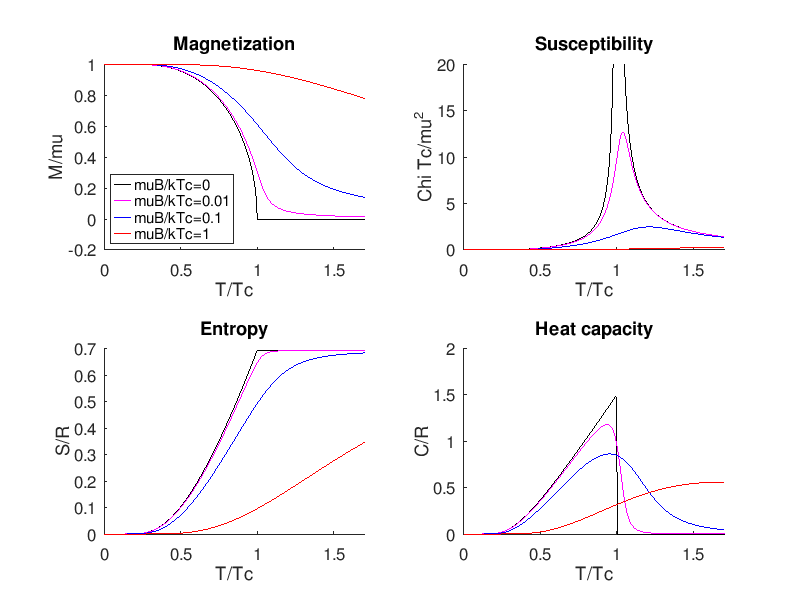
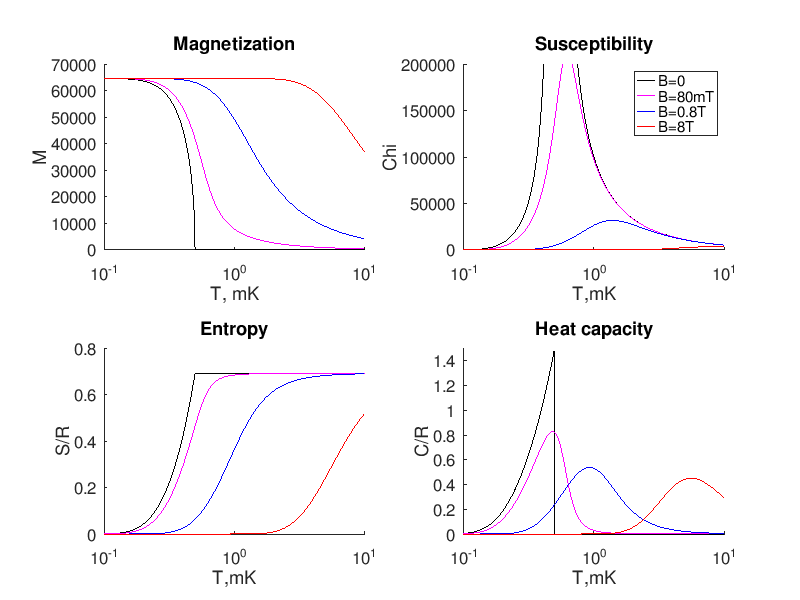
magn.f: update docs

diff --git a/docs/index.htm b/docs/index.htm
@@ -40,6 +40,9 @@
 <p>This library provides constant and functions for various $^3$He properties.
 Code can be found in <a href="https://github.com/slazav/he3lib">https://github.com/slazav/he3lib</a>
 
+<p>Old documentation (last updated 2016):
+<a href="http://slazav.github.io/he3lib/index_2016.html">
+http://slazav.github.io/he3lib/index_2016.html</a>
 
 <h3>Supported interfaces</h3>
 
@@ -47,9 +50,6 @@ Code can be found in <a href="https://github.com/slazav/he3lib">https://github.c
 command-line interface. Example programs and scripts can be found in the
 <tt>examples/</tt> folder.
 
-<p>Old documentation (last updated 2016):
-<a href="http://slazav.github.io/he3lib/index_2016.htm">
-http://slazav.github.io/he3lib/index_2016.htm</a>
 
 <ul>
 <li><b>Fortran-77.</b>
@@ -1053,15 +1053,15 @@ arguments: temperature [K], pressure [bar], rho wire [g/cm^3], wire diameter [um
 <hr><a name='hh21'></a><h2>Magnetic models
 <a href="https://raw.githubusercontent.com/slazav/he3lib/master/functions//magn.f">[magn.f]</a>
 </h2>
+<p><p>TODO: it's better to re-chack magnetization units. It's checked that magnetization
+is consistent with susceptibility and entropy is consistent with heat capacity and
+demagnetization cooling effect.</p>
 <h3>Curie-Weiss magnet with spin 1/2</h3>
 <p>See <a href="https://arxiv.org/pdf/1301.2141.pdf">[Kochmansky]</a>.</p>
-<p><p>Function arguments:
-<br>ttc: $T/T_c$
-<br>btc: $\gamma \hbar B / 2 k_B T_c$ (note spin factor 1/2)</p>
 <p><tt>magn_cw_y(ttc,btc)</tt> -- y-function, dimensionless magnetization of S=1/2 Curie-Weiss magnet,  M/mu vs T/Tc and muB/kTc
 <br>
 Solving equation m = \tanh((m+btc)/ttc) by Newton method.
-<br>Works for positive and negative btc.
+Works for positive and negative field.
 
 <p><tt>magn_cw_m(T,B,Tc,gyro)</tt> -- Molar magnetization of S=1/2 Curie-Weiss magnet,  M[J/T/mole] vs T[K], B[T], Tc[K], gyro[rad/s/T]
 <br>
@@ -1075,18 +1075,20 @@ Solving equation m = \tanh((m+btc)/ttc) by Newton method.
 <p><tt>magn_cw_c(T,B,Tc,gyro)</tt> -- Heat capacity of S=1/2 Curie-Weiss magnet,  C/R vs T[K], B[T], Tc[K], gyro[rad/s/T]
 <br>
 
-<p><tt>magn_cw_d(T,B,Tc,gyro)</tt> -- Cooling effect of demagnetization D [K/T] vs T[K], B[T], Tc[K], gyro[rad/s/T]
+<p><tt>magn_cw_d(T,B,Tc,gyro)</tt> -- Cooling effect of demagnetization D[K/T] vs T[K], B[T], Tc[K], gyro[rad/s/T]
 <br>
 In the demagnetization process $dQ = T\,dS = T(dS/dT)\,dT + T(dS/dB)\,dB$.
 <br>Then $dT = dQ/C + D\,dB$, where $D = (dS/dB)/(dS/dT)$
 
+<p><p>Example for Curie-Weiss material with Curie temperature $T_c=0.5$ mK and
+gyromagnetic ratio $\gamma=203.789\cdot10^6$ rad/s/T.</p>
 <p><p> <img src="img/magn_cw.png"></p>
 <h3>Paramegnetetic material with internal field</h3>
-<p>See Pobell book f9.15
-<p>Function arguments:
-<br>bt: $\gamma \hbar \sqrt{B^2 + B_i^2} / k_B T$
-<br>spin</p>
-<p><tt>magn_par_m(T,B,Bi,gyro,spin)</tt> -- Molar magnetization of paramagnetic material, M[J/K/mole] vs T[K], B[T], Bi[T], gyro[rad/s/T], spin[half-int]
+<p>See Pobell book f9.15</p>
+<p><tt>magn_par_m(T,B,Bi,gyro,spin)</tt> -- Molar magnetization of paramagnetic material, M[J/T/mole] vs T[K], B[T], Bi[T], gyro[rad/s/T], spin[half-int]
+<br>
+
+<p><tt>magn_par_chi(T,B,Bi,gyro,spin)</tt> -- Molar magnetic susceptibility of paramagnetic material, chi[J/T^2/mole] vs T[K], B[T], Bi[T], gyro[rad/s/T], spin[half-int]
 <br>
 
 <p><tt>magn_par_s(T,B,Bi,gyro,spin)</tt> -- Entropy of paramagnetic material, S/R vs T[K], B[T], Bi[T], gyro[rad/s/T], spin[half-int]
@@ -1095,12 +1097,13 @@ In the demagnetization process $dQ = T\,dS = T(dS/dT)\,dT + T(dS/dB)\,dB$.
 <p><tt>magn_par_c(T,B,Bi,gyro,spin)</tt> -- Heat capacity of paramagnetic material, C/R vs T[K], B[T], Bi[T], gyro[rad/s/T], spin[half-int]
 <br>
 
-<p><p>Example for copper nuclei.  Internal field $B_i$ = 0.36e-3 T, gyromagnetic ratio $\gamma$ = 71.118e6 rad/s/T,
-spin $J$ = 3/2.</p>
+<p><tt>magn_par_d(T,B,Bi,gyro,spin)</tt> -- Cooling effect of demagnetization D[K/T] vs T[K], B[T], Bi[T], gyro[rad/s/T], spin[half-int]
+<br>
+In the demagnetization process $dQ = T\,dS = T(dS/dT)\,dT + T(dS/dB)\,dB$.
+<br>Then $dT = dQ/C + D\,dB$, where $D = (dS/dB)/(dS/dT)$
+
+<p><p>Example for copper nuclei.  Internal field $B_i = 0.36\cdot 10^{-3}$ T,
+gyromagnetic ratio $\gamma = 71.118\cdot10^6$ rad/s/T, spin $J$ = 3/2:</p>
 <p><p> <img src="img/magn_par.png"></p>
-<p><p>Comparison of Curie-Weiss and Paramagnetic models for solid He3 on a surface.
-Internal field $B_i$ = 0.7 T, gyromagnetic ratio $\gamma$ =  203.789e6 rad/s/T,
-spin $J$ = 1/2, Curie temerature $T_c$ = 0.5 mK.</p>
-<p><p> <img src="img/magn_he3s.png"></p>
 
 </body></html>

diff --git a/docs/img/magn_cw.m b/docs/img/magn_cw.m
@@ -3,61 +3,66 @@
   pkg load he3lib
 
 
-  t=0:0.005:1.7;
+  t=exp(log(0.1):0.01:log(10))*1e-3;
 
   figure; clf;
   subplot(2,2,1); hold on;
   title("Magnetization")
-  xlabel('T/Tc');
-  ylabel('M/mu');
+  xlabel('T, mK');
+  ylabel('M');
 
-  plot(t,magn_cw_m(t,0), 'k-');
-  plot(t,magn_cw_m(t,0.01), 'm-');
-  plot(t,magn_cw_m(t,0.1), 'b-');
-  plot(t,magn_cw_m(t,1), 'r-');
-  xlim([0,t(end)])
-  legend('muB/kTc=0', 'muB/kTc=0.01', 'muB/kTc=0.1', 'muB/kTc=1', 'Location', 'SouthWest')
+  Tc = 0.5e-3;
+  B0 = 0;
+  B1 = 0.08;
+  B2 = 0.8;
+  B3 = 8;
+  gyro = 203.789e6
+
+  semilogx(t*1e3,magn_cw_m(t,B0,Tc,gyro), 'k-');
+  semilogx(t*1e3,magn_cw_m(t,B1,Tc,gyro), 'm-');
+  semilogx(t*1e3,magn_cw_m(t,B2,Tc,gyro), 'b-');
+  semilogx(t*1e3,magn_cw_m(t,B3,Tc,gyro), 'r-');
+  ylim([0,70000])
+
 
 
   subplot(2,2,2); hold on;
   title("Susceptibility")
-  xlabel('T/Tc');
-  ylabel('Chi Tc/mu^2');
+  xlabel('T,mK');
+  ylabel('Chi');
 
-  plot(t,magn_cw_chi(t,0), 'k-');
-  plot(t,magn_cw_chi(t,0.01), 'm-');
-  plot(t,magn_cw_chi(t,0.1), 'b-');
-  plot(t,magn_cw_chi(t,1), 'r-');
-  ylim([0,20])
-  xlim([0,t(end)])
+  semilogx(t*1e3,magn_cw_chi(t,B0,Tc,gyro), 'k-');
+  semilogx(t*1e3,magn_cw_chi(t,B1,Tc,gyro), 'm-');
+  semilogx(t*1e3,magn_cw_chi(t,B2,Tc,gyro), 'b-');
+  semilogx(t*1e3,magn_cw_chi(t,B3,Tc,gyro), 'r-');
+  ylim([0,200000])
+  legend('B=0', 'B=80mT', 'B=0.8T', 'B=8T', 'Location', 'NorthEast')
 
 
 
   subplot(2,2,3); hold on;
   title("Entropy")
-  xlabel('T/Tc');
+  xlabel('T,mK');
   ylabel('S/R');
 
-  plot(t,magn_cw_s(t,0), 'k-');
-  plot(t,magn_cw_s(t,0.01), 'm-');
-  plot(t,magn_cw_s(t,0.1), 'b-');
-  plot(t,magn_cw_s(t,1), 'r-');
-  xlim([0,t(end)])
+  semilogx(t*1e3,magn_cw_s(t,B0,Tc,gyro), 'k-');
+  semilogx(t*1e3,magn_cw_s(t,B1,Tc,gyro), 'm-');
+  semilogx(t*1e3,magn_cw_s(t,B2,Tc,gyro), 'b-');
+  semilogx(t*1e3,magn_cw_s(t,B3,Tc,gyro), 'r-');
+  ylim([0,0.8])
 
 
 
   subplot(2,2,4); hold on;
   title("Heat capacity")
-  xlabel('T/Tc');
+  xlabel('T,mK');
   ylabel('C/R');
 
-  plot(t,magn_cw_c(t,0), 'k-');
-  plot(t,magn_cw_c(t,0.01), 'm-');
-  plot(t,magn_cw_c(t,0.1), 'b-');
-  plot(t,magn_cw_c(t,1), 'r-');
-  xlim([0,t(end)])
-
+  semilogx(t*1e3,magn_cw_c(t,B0,Tc,gyro), 'k-');
+  semilogx(t*1e3,magn_cw_c(t,B1,Tc,gyro), 'm-');
+  semilogx(t*1e3,magn_cw_c(t,B2,Tc,gyro), 'b-');
+  semilogx(t*1e3,magn_cw_c(t,B3,Tc,gyro), 'r-');
+  ylim([0,1.5])
 
   print magn_cw.png -dpng "-S800,600"
-
 

diff --git a/docs/img/magn_par.m b/docs/img/magn_par.m
@@ -14,21 +14,18 @@
   B2 = 0.8;  # T
   B3 = 8;    # T
 
-  x0 = gyro*const_hbar*sqrt(B0^2+Bint^2) ./ (const_kb * 1e-3 * t);
-  x1 = gyro*const_hbar*sqrt(B1^2+Bint^2) ./ (const_kb * 1e-3 * t);
-  x2 = gyro*const_hbar*sqrt(B2^2+Bint^2) ./ (const_kb * 1e-3 * t);
-  x3 = gyro*const_hbar*sqrt(B3^2+Bint^2) ./ (const_kb * 1e-3 * t);
-
   figure; clf;
   subplot(1,3,1); hold on;
   title("Magnetization")
   xlabel('T, mK');
   ylabel('M/Ms');
 
-  semilogx(t,magn_par_m(x0, spin), 'k-');
-  semilogx(t,magn_par_m(x1, spin), 'm-');
-  semilogx(t,magn_par_m(x2, spin), 'b-');
-  semilogx(t,magn_par_m(x3, spin), 'r-');
+  Ms = magn_par_m(0, B3, Bint, gyro, spin);
+
+  semilogx(t,magn_par_m(1e-3*t, B0, Bint, gyro, spin)/Ms, 'k-');
+  semilogx(t,magn_par_m(1e-3*t, B1, Bint, gyro, spin)/Ms, 'm-');
+  semilogx(t,magn_par_m(1e-3*t, B2, Bint, gyro, spin)/Ms, 'b-');
+  semilogx(t,magn_par_m(1e-3*t, B3, Bint, gyro, spin)/Ms, 'r-');
   xlim([0,t(end)])
   legend('B=0', 'B=0.08T', 'B=0.8T', 'B=8T', 'Location', 'SouthWest')
 
@@ -38,10 +35,10 @@
   xlabel('T, mK');
   ylabel('S/R');
 
-  semilogx(t,magn_par_s(x0, spin), 'k-');
-  semilogx(t,magn_par_s(x1, spin), 'm-');
-  semilogx(t,magn_par_s(x2, spin), 'b-');
-  semilogx(t,magn_par_s(x3, spin), 'r-');
+  semilogx(t,magn_par_s(1e-3*t, B0, Bint, gyro, spin), 'k-');
+  semilogx(t,magn_par_s(1e-3*t, B1, Bint, gyro, spin), 'm-');
+  semilogx(t,magn_par_s(1e-3*t, B2, Bint, gyro, spin), 'b-');
+  semilogx(t,magn_par_s(1e-3*t, B3, Bint, gyro, spin), 'r-');
   xlim([0,t(end)])
   ylim([0,1.5])
 
@@ -51,13 +48,14 @@
   xlabel('T,mK');
   ylabel('C/R');
 
-  semilogx(t,magn_par_c(x0, spin), 'k-');
-  semilogx(t,magn_par_c(x1, spin), 'm-');
-  semilogx(t,magn_par_c(x2, spin), 'b-');
-  semilogx(t,magn_par_c(x3, spin), 'r-');
+  semilogx(t,magn_par_c(1e-3*t, B0, Bint, gyro, spin), 'k-');
+  semilogx(t,magn_par_c(1e-3*t, B1, Bint, gyro, spin), 'm-');
+  semilogx(t,magn_par_c(1e-3*t, B2, Bint, gyro, spin), 'b-');
+  semilogx(t,magn_par_c(1e-3*t, B3, Bint, gyro, spin), 'r-');
   xlim([0,t(end)])
   ylim([0,0.8])
 
   print magn_par.png -dpng "-S800,300"
 
 
+available_graphics_toolkits
